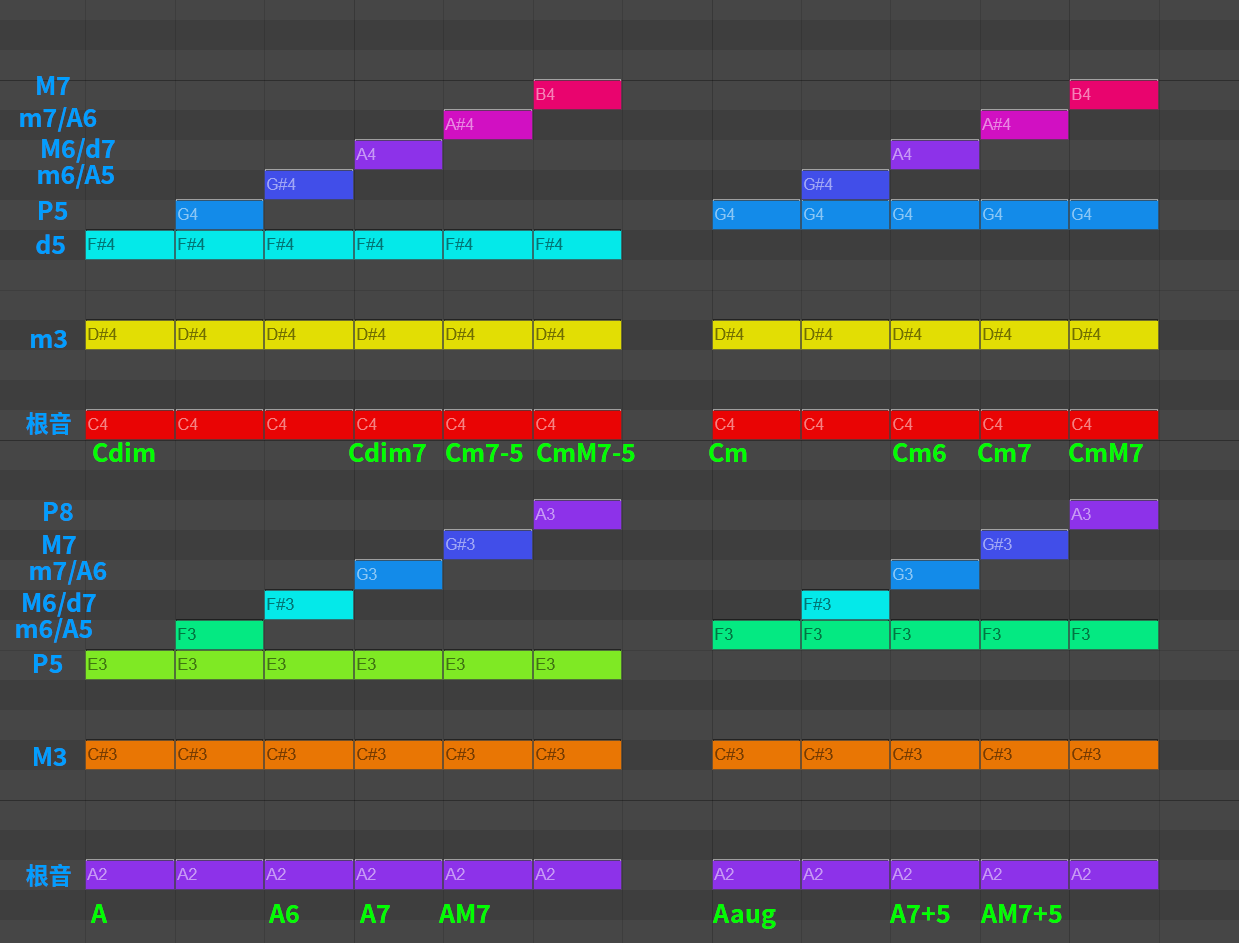
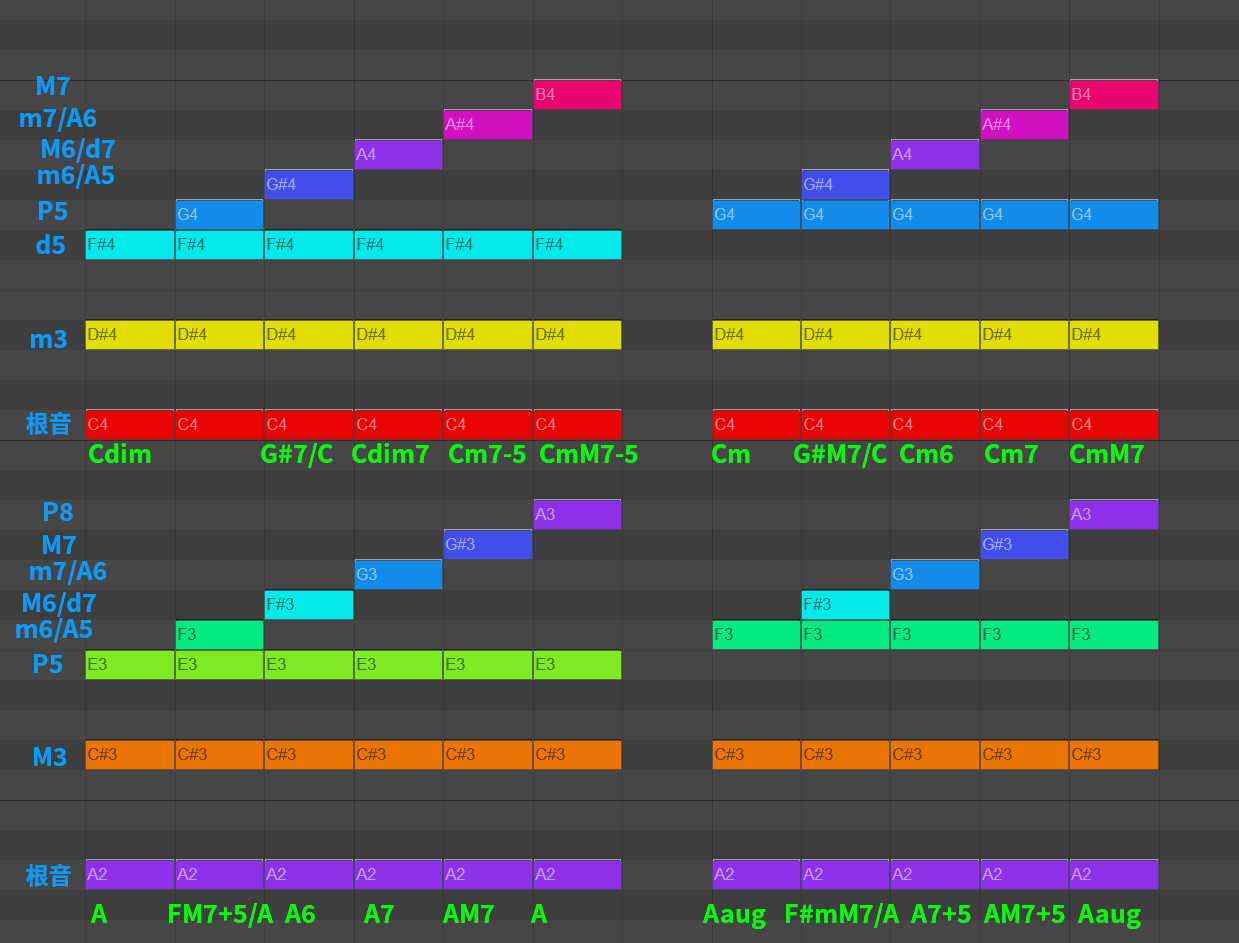
260901

diff --git a/source/_posts/比昂精神分析理论碎片.md b/source/_posts/比昂精神分析理论碎片.md
@@ -20,4 +20,18 @@ permalink: bion.html
 
 无记忆是指咨询师不给来访以任何成见，无欲望是咨询师不猜测来访以后会怎么发展。这时候咨询师要借助自己的α功能，把来访投射过来的β元素给予接纳，把它们转换成α元素。
 
-与之对立的是僵化的和易碎的容器。僵化的容器会挤压并破坏被容纳物，如否定对方的感受，或者直接切断连接。易碎的容器易受到对方的感染。如果对方的负面情绪是1，自己是0，那么咨询师的目的是先把对方的1转移到自己身上，再把它变成0。僵化的容器，对方仍是1，甚至变成2。易碎的容器双方至少都是1。
+与之对立的是僵化的和易碎的容器。僵化的容器会挤压并破坏被容纳物，如否定对方的感受，或者直接切断连接，或过早用理论解释。易碎的容器易受到对方的感染。如果对方的负面情绪是1，自己是0，那么咨询师的目的是先把对方的1转移到自己身上，再把它变成0。僵化的容器，对方仍是1，甚至变成2。易碎的容器双方至少都是1。
+
+## 作为阿尔法功能和防御的命名
+
+给贝塔元素命名，如“我现在很焦虑”。但若直接用心理学术语来解释事件，但不伴随对情绪描述，属于-K状态下的命名。这时候词语作为僵化的容器，把O囚禁了起来。
+
+防御的命名是行动化的一种。如出现负面情绪，停下来思考并忍受挫折，有两种情况，其中用心理学术语解释属于防御的行动化，属于-K连接，另一种是K连接。行动化还可能是直接去做别的事。
+
+比昂认为，婴儿出生后感到的混乱体验先于思考的器官存在，这里的思考器官是一种心理隐喻（从发展心理学角度看，大脑神经元间的突触连接在出生后还会继续增加）。在比昂的理论里，思维是为了应对挫折而产生的。思考的器官作为容器，借用它来修改现实。幻觉系统用于逃避现实。
+
+## K连接（Knowledge）
+
+K连接对情感体验进行抽象，而非直接通过概念演绎。后者称为-K状态。如在解梦时，直接说出梦的含义而不回忆具体的关联事件，属于后者。
+
+高难度的K活动是去了解对方怎么想。
